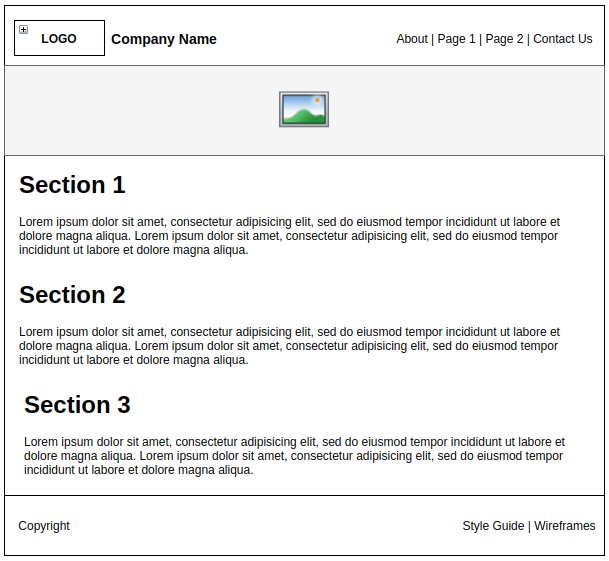
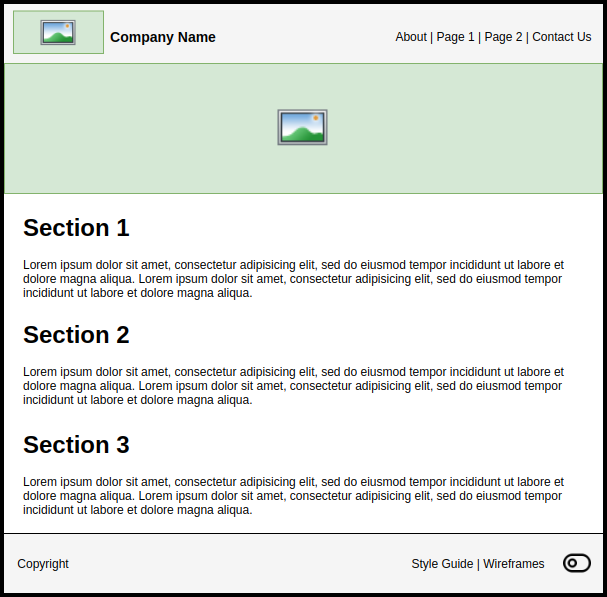
wdd 130 week 9 & 10

diff --git a/templates/navigation/wdd-130.html b/templates/navigation/wdd-130.html
@@ -345,7 +345,8 @@
                 </li>
                 <li>
                     <div class="link">
-                        <a href="week-9/home-wireframe.html">Home Page Wireframe</a>
+                        <a href="week-9/home-wireframe.html">Wireframe</a>
+                        <span class="sub">Home Page</span>
                     </div>
                 </li>
             </ul>
@@ -362,7 +363,23 @@
             <ul>
                 <li>
                     <div class="link">
+                        <a href="week-10/html-forms.html">HTML Forms</a>
+                    </div>
+                </li>
+                <li>
+                    <div class="link">
+                        <a href="week-10/html-cards.html">HTML Cards</a>
+                    </div>
+                </li>
+                <li>
+                    <div class="link">
                         <a href="week-10/prep-repo.html">Prep Repository</a>
+                    </div>
+                </li>
+                <li>
+                    <div class="link">
+                        <a href="week-10/wireframes.html">Wireframes</a>
+                        <span class="sub">About Us & Contact Us Pages</span>
                     </div>
                 </li>
             </ul>

diff --git a/courses/wdd-130/week-10/source/README.md b/courses/wdd-130/week-10/source/README.md
@@ -1,0 +1,2 @@
+# Note to Instructors
+The source repository is imperfect by design! Students will demonstrate their skills by catching the mistakes and fixing them. For example, the company name section in the base wireframe image was not accounted for in the HTML. When students add this section it will break their design because the header uses a 2 column grid, not a 3 column grid.

diff --git a/courses/wdd-130/week-9/assets/REQUIRED.md b/courses/wdd-130/week-9/assets/REQUIRED.md
@@ -1,0 +1,4 @@
+# Required Files
+The following items are required for additional files in this site. Please do to update or remove them without checking on their associated files:
+
+- base-wireframe.png [file](../week-10/wireframes.jhtm)
